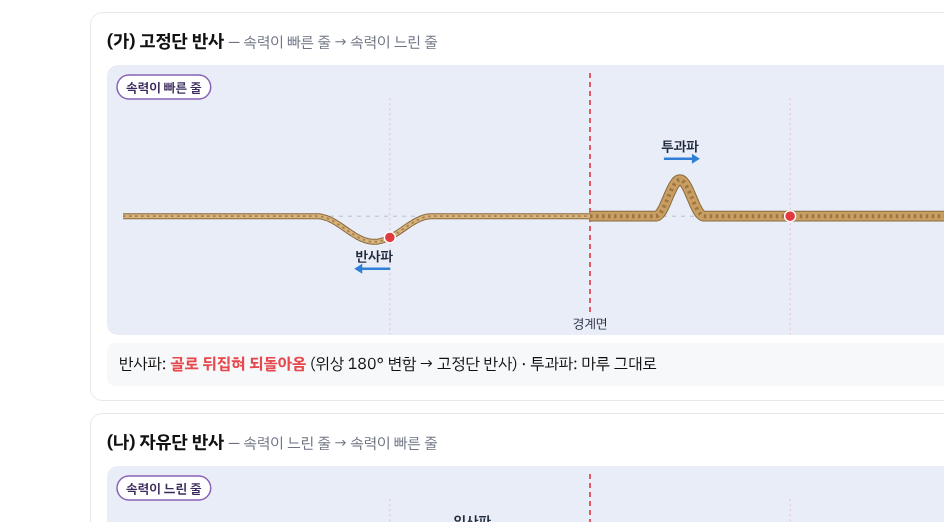
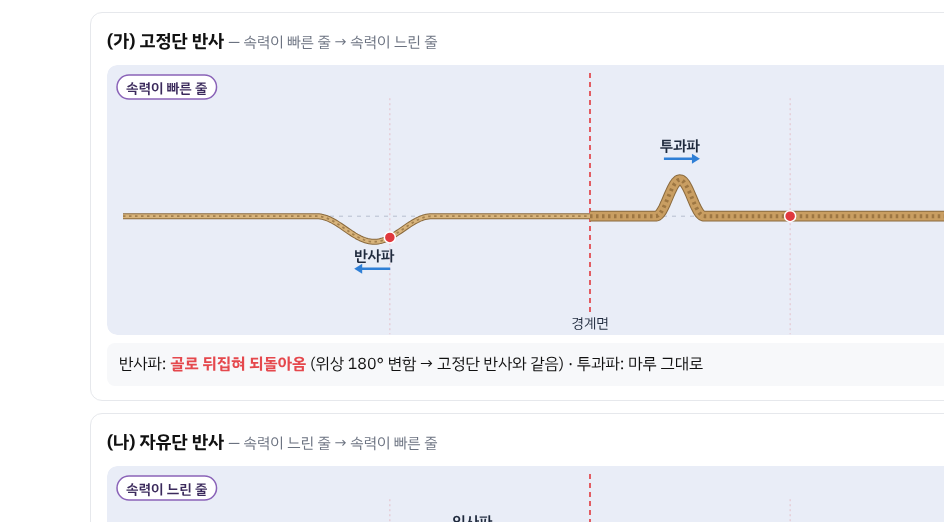
고정단 반사와 자유단 반사: 검토 결과 반영 (런타임 8 · 교과 4 · UX 5)
런타임
- 1200px 이상에서 '직접 조절하기' 탭을 눌러도 (가)(나) 카드가 남던 문제 (#tab-compare.hide)
- 스페이스 키: 포커스된 다른 버튼(마루/골·탭·프리셋)의 동작을 가로채지 않음, 키 반복 무시,
  재생이 끝난 뒤에는 다시 보내기, Firefox의 keyup 클릭 중복 방지
- '골'을 보낼 때 낮은 캔버스(2열·휴대폰)에서 이름표가 줄 위에 겹치던 것 → 바닥에 닿으면 기준선 위로
- '지나간 모습 남기기' 두 번째 장면: 느린 줄→빠른 줄에서 투과파가 화면 밖으로 잘리던 시점을 앞당김
- 처음·리셋 상태의 일시정지 버튼 글자가 '계속'이던 것, 끝나면 '▶ 다시 보내기'와 결과 칸 '끝' 안내
- 웹 글꼴 로드 뒤 다시 그림, 새로고침 때 체크박스 복원 상태를 state 에 반영
- 결과 문구 조사("골를" → "골을")

교과
- "속력 차이가 클수록 반사파가 커짐" → 속력의 비로 정해진다는 서술로, 프리셋 '속력 비 아주 크게 (5배)'
- 경계면 반사를 '고정단 반사와 같음 / 자유단 반사와 같음'으로 (정리표 머리·결과 문구·부제),
  관찰 목록에 고정단(v₂→0)·자유단(v₂→∞) 극한 관계 설명 추가
- 줄 굵기의 의미(v = √(T/μ)) 설명 추가
- 투과파가 입사파보다 커 보여도 에너지는 보존됨을 설명하는 문장 추가

UX
- 휴대폰(≤640px) 조작 줄 높이 322 → 244px (버튼·글자 압축, 시간 슬라이더 한 줄)
- '예상: 반사파가 뒤집힘' 칩이 정답을 미리 알려 주던 것 → 질문형으로
- 프리셋 버튼에 선택 표시, 슬라이더를 직접 움직이면 해제
- 캔버스 글자 13/14 → 14/15px
- 썸네일 재캡처, CLAUDE.md 인수인계 갱신

Claude-Session: https://claude.ai/code/session_01YFfKQGz49m48oPbyrKRZ81

diff --git a/labs/physics/wave-reflection.html b/labs/physics/wave-reflection.html
@@ -97,9 +97,18 @@ input[type=range]{accent-color:#111}
 @media (min-width:1200px){
   .wrap{max-width:1400px}
   #tab-compare{display:grid;grid-template-columns:1fr 1fr;gap:12px;margin-bottom:12px}
+  #tab-compare.hide{display:none}
   #tab-compare .card{margin-bottom:0}
   #tab-custom .card{max-width:1040px;margin-inline:auto}
 }
+@media (max-width:640px){
+  .controls{gap:8px 10px;padding:10px 12px}
+  .btn{padding:8px 11px;font-size:14.5px}
+  .group,label.chk{font-size:14px}
+  .seg button{padding:6px 10px;font-size:14px}
+  .scrub{flex-basis:100%}
+}
+.presets .btn.on{background:#111;color:#fff;border-color:#111}
 /* 뷰어 안(iframe): 파일 자체 제목 숨김 */
 body.vlab-embed header{display:none}
 body.vlab-embed .wrap{padding-top:12px}
@@ -110,7 +119,7 @@ body.vlab-embed .wrap{padding-top:12px}
 <div class="wrap">
   <header>
     <h1>고정단 반사와 자유단 반사 시뮬레이션</h1>
-    <p class="lead">속력이 다른 두 줄을 이어 붙이고 파동을 보내, 경계면에서 생기는 반사파와 투과파의 모양을 관찰</p>
+    <p class="lead">속력이 다른 두 줄을 이어 붙이고 파동을 보내, 경계면에서 생기는 반사파와 투과파의 모양을 관찰 — 매질의 경계에서 생기는 반사를 줄 끝의 고정단·자유단 반사와 견주어 보기</p>
   </header>
 
   <div class="tabs">
@@ -154,7 +163,7 @@ body.vlab-embed .wrap{padding-top:12px}
         <button class="btn ghost" data-p="4,1.5">빠른 줄 → 느린 줄</button>
         <button class="btn ghost" data-p="2.5,2.5">같은 속력</button>
         <button class="btn ghost" data-p="1.5,4">느린 줄 → 빠른 줄</button>
-        <button class="btn ghost" data-p="5,1">속력 차이 아주 크게</button>
+        <button class="btn ghost" data-p="5,1">속력 비 아주 크게 (5배)</button>
       </div>
       <div class="sliders">
         <label>왼쪽 줄(파동이 출발하는 줄)의 속력: <span class="val" id="v1Val"></span>
@@ -180,7 +189,7 @@ body.vlab-embed .wrap{padding-top:12px}
 
     <h2>정리</h2>
     <table>
-      <tr><th>구분</th><th>고정단 반사</th><th>자유단 반사</th></tr>
+      <tr><th>구분</th><th>고정단 반사와 같은 경우</th><th>자유단 반사와 같은 경우</th></tr>
       <tr><td>파동의 진행</td><td>속력이 빠른 줄 → 느린 줄</td><td>속력이 느린 줄 → 빠른 줄</td></tr>
       <tr><td>반사파</td><td>위상이 180° 변함 (마루가 골로 뒤집혀 되돌아옴)</td><td>위상이 바뀌지 않음 (마루가 마루 그대로 되돌아옴)</td></tr>
       <tr><td>투과파</td><td>뒤집히지 않음 (마루는 마루)</td><td>뒤집히지 않음 (마루는 마루)</td></tr>
@@ -189,7 +198,10 @@ body.vlab-embed .wrap{padding-top:12px}
     <h2>관찰하면서 알 수 있는 것</h2>
     <ul>
       <li>두 줄의 속력이 같으면 경계면이 없는 것과 같아 반사파가 생기지 않고 모두 투과</li>
-      <li>두 줄의 속력 차이가 클수록 반사파가 커짐</li>
+      <li>두 줄의 속력 비가 1에서 멀수록(한쪽이 다른 쪽의 몇 배인지가 클수록) 반사파의 진폭이 커짐 — 속력의 차이가 아니라 비로 정해짐</li>
+      <li>줄 끝이 벽에 고정된 고정단 반사는 오른쪽 줄의 속력이 0에 가까운 극한, 끝이 자유로운 자유단 반사는 오른쪽 줄의 속력이 매우 큰 극한에 해당 → 매질의 경계에서는 '고정단 반사와 같이' 위상이 180° 바뀌거나 '자유단 반사와 같이' 그대로 반사됨</li>
+      <li>같은 장력일 때 굵고 무거운 줄에서 파동이 느리고, 가늘고 가벼운 줄에서 빠름 (v = √(T/μ)) → 그림에서 줄의 굵기가 이를 나타냄</li>
+      <li>느린 줄 → 빠른 줄일 때 투과파가 입사파보다 높아 보이지만, 가벼운(빠른) 줄은 같은 진폭이라도 운반하는 에너지가 작아 반사파와 투과파의 에너지를 합하면 입사파와 같음</li>
       <li>투과파는 속력이 느린 줄로 넘어가면 폭이 좁아지고, 빠른 줄로 넘어가면 폭이 넓어짐 → 같은 시간 동안 이동하는 거리가 줄마다 다르기 때문</li>
       <li>리본은 위아래로 진동할 뿐 파동을 따라 옆으로 이동하지 않음 → 전달되는 것은 매질이 아니라 진동</li>
     </ul>
@@ -248,7 +260,7 @@ body.vlab-embed .wrap{padding-top:12px}
     ctx.arcTo(x,y+h,x,y,r); ctx.arcTo(x,y,x+w,y,r); ctx.closePath();
   }
   function pill(ctx, text, x, y, align){
-    ctx.font = "600 13px 'IBM Plex Sans KR', Pretendard, 'Apple SD Gothic Neo', 'Malgun Gothic', sans-serif";
+    ctx.font = "600 14px 'IBM Plex Sans KR', Pretendard, 'Apple SD Gothic Neo', 'Malgun Gothic', sans-serif";
     var tw = ctx.measureText(text).width, w = tw + 18, h = 24;
     var left = align === "right" ? x - w : x;
     roundRect(ctx, left, y, w, h, 12);
@@ -257,7 +269,7 @@ body.vlab-embed .wrap{padding-top:12px}
     ctx.fillText(text, left + 9, y + h/2 + 0.5);
   }
   function arrowLabel(ctx, text, x, y, dir){
-    ctx.font = "600 14px 'IBM Plex Sans KR', Pretendard, 'Apple SD Gothic Neo', 'Malgun Gothic', sans-serif";
+    ctx.font = "600 15px 'IBM Plex Sans KR', Pretendard, 'Apple SD Gothic Neo', 'Malgun Gothic', sans-serif";
     ctx.textAlign = "center"; ctx.textBaseline = "middle";
     ctx.fillStyle = "#1f2a3d"; ctx.fillText(text, x, y);
     var ay = y + 13, half = 16;
@@ -295,7 +307,7 @@ body.vlab-embed .wrap{padding-top:12px}
     var bx = this.px(0);
     ctx.strokeStyle = "#e0393e"; ctx.lineWidth = 1.6; ctx.setLineDash([5,4]);
     ctx.beginPath(); ctx.moveTo(bx, 8); ctx.lineTo(bx, H - 22); ctx.stroke(); ctx.setLineDash([]);
-    ctx.fillStyle = "#1f2a3d"; ctx.font = "13px 'IBM Plex Sans KR', Pretendard, 'Apple SD Gothic Neo', 'Malgun Gothic', sans-serif";
+    ctx.fillStyle = "#1f2a3d"; ctx.font = "14px 'IBM Plex Sans KR', Pretendard, 'Apple SD Gothic Neo', 'Malgun Gothic', sans-serif";
     ctx.textAlign = "center"; ctx.textBaseline = "alphabetic"; ctx.fillText("경계면", bx, H - 7);
     // 줄 이름
     pill(ctx, this.labels(this, -1), 10, 10, "left");
@@ -304,7 +316,9 @@ body.vlab-embed .wrap{padding-top:12px}
     // 지나간 모습
     if (state.trail && state.sent){
       // 경계면에 닿기 전 모습(입사파)과 반사가 끝난 뒤 모습, 두 장면만 흐리게 남김
-      var snaps = [-4.5, 4.5];
+      // 두 번째 장면은 반사파가 다 나오고 투과파도 화면 안에 있는 시점(느린 줄→빠른 줄은 투과파가 멀리 가므로 앞당김)
+      var s2 = Math.min(4.5, Math.max(W + 0.3, (X_MAX - 1)*this.v1/this.v2 - W*0.9));
+      var snaps = [-4.5, s2];
       for (var q = 0; q < snaps.length; q++){
         var tk = (snaps[q] - X0)/this.v1;
         if (tk < t - 0.05){ this.strokeRope(tk, -1, true); this.strokeRope(tk, 1, true); }
@@ -329,8 +343,9 @@ body.vlab-embed .wrap{padding-top:12px}
       var s = this.s(t), up = function(a){ return a >= 0; };
       var place = (function(self){ return function(text, x, amp, dir){
         if (x < X_MIN + 1 || x > X_MAX - 1) return;
-        var X = self.px(x), Y = up(amp) ? self.py(amp) - 34 : self.py(amp) + 14;
-        if (Y < 40) Y = 40; if (Y > H - 44) Y = H - 44;
+        var X = self.px(x), Y;
+        if (up(amp)){ Y = self.py(amp) - 34; if (Y < 40) Y = self.py(0) + 14; }   // 천장에 닿으면 기준선 아래
+        else { Y = self.py(amp) + 14; if (Y > H - 44) Y = self.py(0) - 34; }       // 바닥에 닿으면 기준선 위
         arrowLabel(ctx, text, X, Y, dir);
       }; })(this);
       if (s < -W*0.5) place("입사파", s, sign, 1);
@@ -345,16 +360,17 @@ body.vlab-embed .wrap{padding-top:12px}
   Sim.prototype.updateText = function(){
     var el = this.res, t = state.t, sign = state.sign;
     var sent = sign > 0 ? "마루" : "골", flip = sign > 0 ? "골" : "마루";
-    if (!state.sent){ el.innerHTML = "「파동 보내기」를 눌러 " + sent + "를 보내 보기"; return; }
+    if (!state.sent){ el.innerHTML = "「파동 보내기」를 눌러 " + sent + (sign > 0 ? "를" : "을") + " 보내 보기"; return; }
     var s = this.s(t);
     if (s < W*0.6){ el.innerHTML = "입사파(" + sent + ")가 경계면으로 다가가는 중"; return; }
     if (Math.abs(this.r) < 0.01){
-      el.innerHTML = "두 줄의 속력이 같아 <b class='same'>반사파가 생기지 않고</b> 모두 투과 · 투과파: " + sent; return;
+      el.innerHTML = "두 줄의 속력이 같아 <b class='same'>반사파가 생기지 않고</b> 모두 투과 · 투과파: " + sent + (t >= this.tEnd - 1e-6 ? " · 끝" : ""); return;
     }
+    var done = t >= this.tEnd - 1e-6 ? " · 끝 (「다시 보내기」를 눌러 다시 보기)" : "";
     if (this.r < 0){
-      el.innerHTML = "반사파: <b class='inv'>" + flip + "로 뒤집혀 되돌아옴</b> (위상 180° 변함 → 고정단 반사) · 투과파: " + sent + " 그대로";
+      el.innerHTML = "반사파: <b class='inv'>" + flip + "로 뒤집혀 되돌아옴</b> (위상 180° 변함 → 고정단 반사와 같음) · 투과파: " + sent + " 그대로" + done;
     } else {
-      el.innerHTML = "반사파: <b class='same'>" + sent + " 그대로 되돌아옴</b> (위상 변하지 않음 → 자유단 반사) · 투과파: " + sent + " 그대로";
+      el.innerHTML = "반사파: <b class='same'>" + sent + " 그대로 되돌아옴</b> (위상 변하지 않음 → 자유단 반사와 같음) · 투과파: " + sent + " 그대로" + done;
     }
   };
 
@@ -384,8 +400,10 @@ body.vlab-embed .wrap{padding-top:12px}
     var m = tMax();
     scrub.max = m.toFixed(2); scrub.value = Math.min(state.t, m).toFixed(2);
     btnPause.disabled = !state.sent || state.t >= m - 1e-6;
-    btnPause.textContent = state.running ? "일시정지" : "계속";
-    btnStep.disabled = state.running || state.t >= m - 1e-6;
+    var ended = state.sent && state.t >= m - 1e-6;
+    btnPause.textContent = (state.running || !state.sent) ? "일시정지" : "계속";
+    btnSend.textContent = ended ? "▶ 다시 보내기" : "▶ 파동 보내기";
+    btnStep.disabled = state.running || ended;
   }
   function drawAll(){ active().forEach(function(s){ s.draw(); }); syncUI(); }
 
@@ -409,8 +427,10 @@ body.vlab-embed .wrap{padding-top:12px}
     });
   }
   seg("shapeSeg", "sign"); seg("rateSeg", "rate");
-  document.getElementById("trail").onchange = function(e){ state.trail = e.target.checked; drawAll(); };
-  document.getElementById("ribbon").onchange = function(e){ state.ribbon = e.target.checked; drawAll(); };
+  var trailEl = document.getElementById("trail"), ribbonEl = document.getElementById("ribbon");
+  trailEl.onchange = function(e){ state.trail = e.target.checked; drawAll(); };
+  ribbonEl.onchange = function(e){ state.ribbon = e.target.checked; drawAll(); };
+  state.trail = trailEl.checked; state.ribbon = ribbonEl.checked;   // 새로고침 때 브라우저가 체크 상태를 복원해도 어긋나지 않게
 
   // 탭
   document.querySelectorAll(".tab").forEach(function(b){
@@ -432,21 +452,34 @@ body.vlab-embed .wrap{padding-top:12px}
     document.getElementById("v1Val").textContent = fmt(v1);
     document.getElementById("v2Val").textContent = fmt(v2);
     var c = document.getElementById("cond");
-    if (v1 > v2) c.textContent = "왼쪽 줄이 더 빠름 → 예상: 반사파가 뒤집힘 (고정단 반사)";
-    else if (v1 < v2) c.textContent = "왼쪽 줄이 더 느림 → 예상: 반사파가 그대로 (자유단 반사)";
-    else c.textContent = "두 줄의 속력이 같음 → 예상: 반사파 없음";
+    if (v1 > v2) c.textContent = "왼쪽 줄이 더 빠름 — 반사파가 뒤집힐까, 그대로일까? 파동을 보내 확인해 보기";
+    else if (v1 < v2) c.textContent = "왼쪽 줄이 더 느림 — 반사파가 뒤집힐까, 그대로일까? 파동을 보내 확인해 보기";
+    else c.textContent = "두 줄의 속력이 같음 — 반사파가 생길까? 파동을 보내 확인해 보기";
+    markPreset();
     state.t = 0; state.running = false; state.sent = false; drawAll();
   }
+  var presetBtns = document.querySelectorAll(".presets button");
+  function markPreset(){
+    presetBtns.forEach(function(b){ b.classList.toggle("on", b.dataset.p === v1In.value + "," + v2In.value); });
+  }
   v1In.oninput = updateCustom; v2In.oninput = updateCustom;
-  document.querySelectorAll(".presets button").forEach(function(b){
+  presetBtns.forEach(function(b){
     b.onclick = function(){ var p = b.dataset.p.split(","); v1In.value = p[0]; v2In.value = p[1]; updateCustom(); };
   });
 
   function resizeAll(){ [simA, simB, simC].forEach(function(s){ if (s.cv.offsetParent !== null) s.resize(); }); }
   window.addEventListener("resize", function(){ resizeAll(); drawAll(); });
+  // 스페이스: 보내기/일시정지/계속 (끝난 뒤에는 다시 보내기). 포커스된 다른 버튼·입력란은 제 동작에 맡김
+  var transport = [btnSend, btnPause, btnStep, btnReset];
+  function isTransport(el){ return transport.indexOf(el) !== -1; }
   document.addEventListener("keydown", function(e){
-    if (e.code === "Space" && e.target.tagName !== "INPUT"){ e.preventDefault(); if (state.sent) btnPause.onclick(); else btnSend.onclick(); }
+    if (e.code !== "Space" || e.repeat) return;
+    var tag = e.target.tagName;
+    if ((tag === "BUTTON" && !isTransport(e.target)) || tag === "INPUT" || tag === "SELECT" || tag === "TEXTAREA") return;
+    e.preventDefault();
+    if (state.sent && state.t < tMax() - 1e-6) btnPause.onclick(); else btnSend.onclick();
   });
+  document.addEventListener("keyup", function(e){ if (e.code === "Space" && isTransport(e.target)) e.preventDefault(); });
 
   var last = null;
   function loop(now){
@@ -462,6 +495,7 @@ body.vlab-embed .wrap{padding-top:12px}
   }
 
   resizeAll(); updateCustom(); drawAll();
+  if (document.fonts && document.fonts.ready) document.fonts.ready.then(function(){ resizeAll(); drawAll(); });
   requestAnimationFrame(loop);
 })();
 </script>

diff --git a/CLAUDE.md b/CLAUDE.md
@@ -2,7 +2,10 @@
 
 이 파일은 새 Claude 세션이 시작될 때 자동으로 읽힙니다. 사람이 읽는 안내는 `README.md`, 디자인 규칙은 `docs/DESIGN.md`.
 
-## 최근 작업 상태 (2026-11-05 기준, 새 세션은 여기부터 읽기)
+## 최근 작업 상태 (2026-11-09 기준, 새 세션은 여기부터 읽기)
+
+- 2026-11-09: 하영우 선생님 **고정단 반사와 자유단 반사** (`labs/physics/wave-reflection.html`, id `wave-reflection`) 등록·검토·배포. 단원 '역학과 에너지 · 탄성파와 소리', 고2·고3. 넓은 화면(1200px 이상)에서는 (가)(나) 카드를 2열로. 검토 반영(런타임 8·교과 4·UX 5)은 `git log -1 --grep='검토 결과 반영' -- labs/physics/wave-reflection.html` 커밋 메시지 참고. 용어는 선생님 제목('고정단 반사/자유단 반사')을 그대로 두되 결과 문구·정리표는 '고정단 반사와 같음'으로 썼고, 관찰 목록에 극한 관계(v₂→0 고정단, v₂→∞ 자유단)·줄 굵기(v=√(T/μ))·에너지 보존 문장을 보탰다.
+- 세션 브랜치가 `claude/trusting-hopper-q8etug` 였고, 매 커밋을 `claude/awesome-johnson-vp7823` 에도 푸시해 배포함.
 
 - 물리 첫 실험 **역학과 에너지 가상 실험실**(하영우 선생님, 6가지) 등록·검토·배포 완료. 커밋 `2a2c092`(등록), `4c61c7a`(검토 반영: 런타임 6·교과 6·UX 9). 사이트 반영됨.
 - 검토에서 고친 것 요약: 애니메이션 마지막 프레임 누락(상대성·포물선·위성), 도플러 중복 기록, draw 예외 시 전체 정지 방지, 블랙홀 슬라이더 최솟값, "목성 위성" 문장 정정, 충격파 조건 문구, GPS 45 μs 설명, 실험 전환 시 맨 위로 스크롤, 소리 미지원 안내, 인공위성 [멈춤] 버튼 등. 자세한 목록은 `git show 4c61c7a` 커밋 메시지.
@@ -23,11 +26,12 @@
 - 운영자 휘쌤(화학 교사). 다른 선생님들이 만든 실험 HTML을 받아서 올리는 일이 주 업무.
 - 모든 사용자 응답과 커밋 메시지는 **한국어**로 쓴다.
 
-## 현재 등록된 실험 (data/labs.js, 19개)
+## 현재 등록된 실험 (data/labs.js, 20개)
 
 | 과목 | id | 제목 | 제작 |
 |---|---|---|---|
 | 물리 | mechanics-energy | 역학과 에너지 가상 실험실 (6가지, `experiments[]` · 포물선·단진자·케플러·인공위성·도플러·일반 상대성) | 하영우 |
+| 물리 | wave-reflection | 고정단 반사와 자유단 반사 (두 줄 경계면의 반사·투과 펄스, 두 경우 비교 · 직접 조절) | 하영우 |
 | 물리 | pendulum-labnote | 단진자 디지털 랩노트 (실제 실험용 노트 · 측정 기록·사진·그래프·A4 보고서, 브라우저 저장) | 송다혜 |
 | 생명 | monster-designer | 몬스터 디자이너 (자연선택 설계 게임, 자동 논리 점검 · 외부 API 호출 없음) | 송다혜 |
 | 생명 | speciation-lab | 종분화 실험실 (돌연변이·자연선택·지리적 격리 시뮬레이션, 계통수 · 2026-11-04 '서식지' 화면과 3열 한 화면 배치는 V-Lab에서 추가) | 송다혜 |
